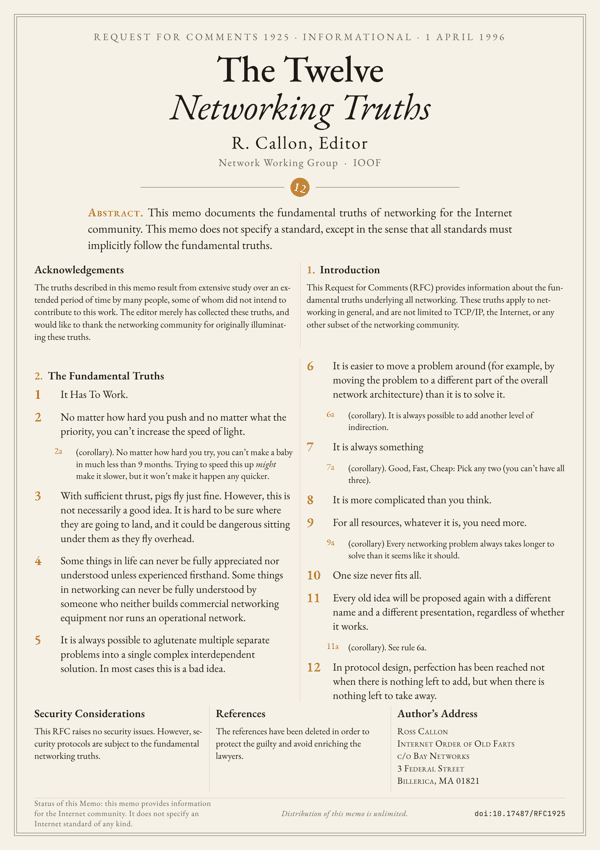
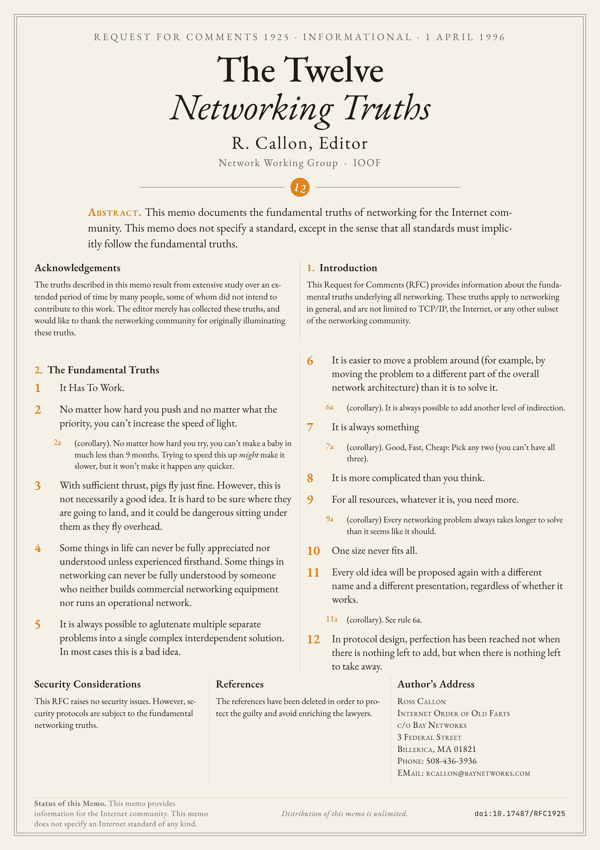
fix(papers): rfc-1925 address and status as in the RFC
The address now keeps the phone and e-mail of the author, and the
footer quotes the status of the memo word for word ("This memo does
not specify", where it said "It does not specify"). Every word of the
RFC is now on the poster. The body goes from 25.97 to 25.01 pt (A);
the two columns of truths end 1.09, 1.09 and 0.08 lines apart.

Changed region(s): [[0.06, 0.3059, 0.93, 0.9788], [0.06, 0.1835, 0.87, 0.3976]]

diff --git a/papers/internet/rfc-1925/text.md b/papers/internet/rfc-1925/text.md
@@ -58,6 +58,6 @@ The references have been deleted in order to protect the guilty and avoid enrich
 
 ## Author's Address
 
-<p class="addr">Ross Callon<br>Internet Order of Old Farts<br>c/o Bay Networks<br>3 Federal Street<br>Billerica, MA 01821</p>
+<p class="addr">Ross Callon<br>Internet Order of Old Farts<br>c/o Bay Networks<br>3 Federal Street<br>Billerica, MA 01821<br>Phone: 508-436-3936<br>EMail: rcallon@baynetworks.com</p>
 
 :::
